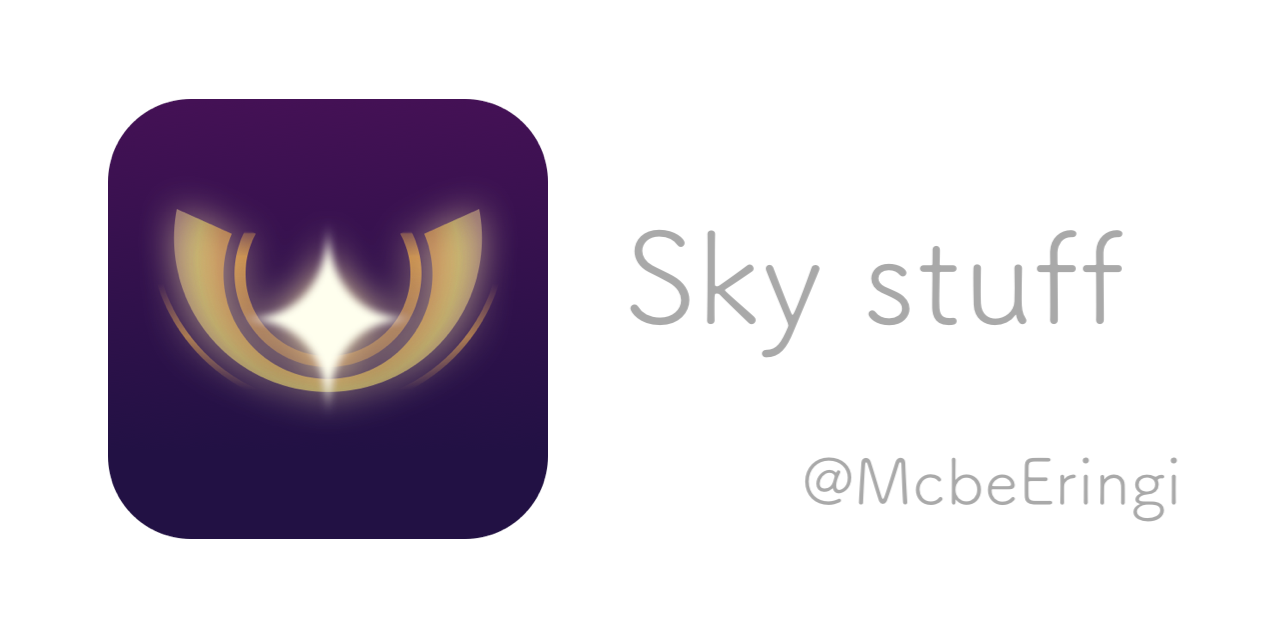
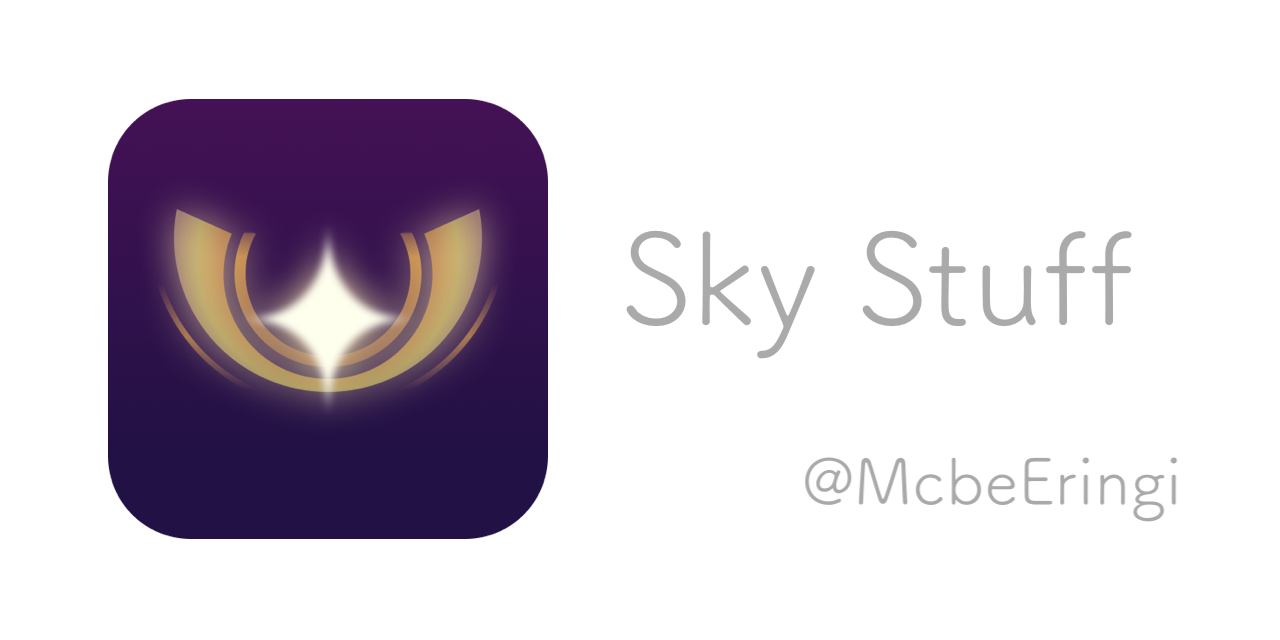
-

Changed region(s): [[0.4688, 0.3438, 0.875, 0.5625], [0.6875, 0.3438, 0.7188, 0.375]]

diff --git a/manual/index.html b/manual/index.html
@@ -7,7 +7,7 @@
 		<meta charset="utf-8">
 		<meta name="viewport" content="width=device-width,initial-scale=1">
 		<title>sky_manual</title>
-		<meta name="Description" content="Sky stuffs' manual">
+		<meta name="Description" content="Sky Stuffs' manual">
 		<link rel="shortcut icon" type="image/svg+xml" href="../img/ico/manual.svg">
 		<meta property="og:type" content="website">
 		<meta property="og:title" content="sky_manual">
@@ -17,7 +17,7 @@
 		<!--iOS-->
 		<meta name="apple-mobile-web-app-capable" content="yes">
 		<meta name="apple-mobile-web-app-status-bar-style" content="default">
-		<meta name="apple-mobile-web-app-title" content="sky stuff">
+		<meta name="apple-mobile-web-app-title" content="Sky Stuff">
 		<link rel="apple-touch-icon" href="../img/sky.png">
 		<!--sw-->
 		<link rel="manifest" href="../skymf.json">

diff --git a/info.html b/info.html
@@ -17,7 +17,7 @@
 		<!--iOS-->
 		<meta name="apple-mobile-web-app-capable" content="yes">
 		<meta name="apple-mobile-web-app-status-bar-style" content="default">
-		<meta name="apple-mobile-web-app-title" content="sky stuff">
+		<meta name="apple-mobile-web-app-title" content="Sky Stuff">
 		<link rel="apple-touch-icon" href="img/sky.png">
 		<!--sw-->
 		<link rel="manifest" href="skymf.json">

diff --git a/seq.html b/seq.html
@@ -17,7 +17,7 @@
 		<!--iOS-->
 		<meta name="apple-mobile-web-app-capable" content="yes">
 		<meta name="apple-mobile-web-app-status-bar-style" content="default">
-		<meta name="apple-mobile-web-app-title" content="sky stuff">
+		<meta name="apple-mobile-web-app-title" content="Sky Stuff">
 		<link rel="apple-touch-icon" href="img/sky.png">
 		<!--sw-->
 		<link rel="manifest" href="skymf.json">

diff --git a/test/instr1.html b/test/instr1.html
@@ -17,7 +17,7 @@
 		<!--iOS-->
 		<meta name="apple-mobile-web-app-capable" content="yes">
 		<meta name="apple-mobile-web-app-status-bar-style" content="default">
-		<meta name="apple-mobile-web-app-title" content="sky stuff">
+		<meta name="apple-mobile-web-app-title" content="Sky Stuff">
 		<link rel="apple-touch-icon" href="img/sky.png">
 		<!--sw-->
 		<link rel="manifest" href="skymf.json">

diff --git a/wings.html b/wings.html
@@ -17,7 +17,7 @@
 		<!--iOS-->
 		<meta name="apple-mobile-web-app-capable" content="yes">
 		<meta name="apple-mobile-web-app-status-bar-style" content="default">
-		<meta name="apple-mobile-web-app-title" content="sky stuff">
+		<meta name="apple-mobile-web-app-title" content="Sky Stuff">
 		<link rel="apple-touch-icon" href="img/sky.png">
 		<!--sw-->
 		<link rel="manifest" href="skymf.json">

diff --git a/index.html b/index.html
@@ -17,7 +17,7 @@
 	<!--iOS-->
 	<meta name="apple-mobile-web-app-capable" content="yes">
 	<meta name="apple-mobile-web-app-status-bar-style" content="default">
-	<meta name="apple-mobile-web-app-title" content="sky stuff">
+	<meta name="apple-mobile-web-app-title" content="Sky Stuff">
 	<link rel="apple-touch-icon" href="img/sky.png">
 	<!--sw-->
 	<link rel="manifest" href="skymf.json">

diff --git a/instr.html b/instr.html
@@ -17,7 +17,7 @@
 	<!--iOS-->
 	<meta name="apple-mobile-web-app-capable" content="yes">
 	<meta name="apple-mobile-web-app-status-bar-style" content="default">
-	<meta name="apple-mobile-web-app-title" content="sky stuff">
+	<meta name="apple-mobile-web-app-title" content="Sky Stuff">
 	<link rel="apple-touch-icon" href="img/sky.png">
 	<!--sw-->
 	<link rel="manifest" href="skymf.json">

diff --git a/test/seq0.html b/test/seq0.html
@@ -17,7 +17,7 @@
 	<!--iOS-->
 	<meta name="apple-mobile-web-app-capable" content="yes">
 	<meta name="apple-mobile-web-app-status-bar-style" content="default">
-	<meta name="apple-mobile-web-app-title" content="sky stuff">
+	<meta name="apple-mobile-web-app-title" content="Sky Stuff">
 	<link rel="apple-touch-icon" href="img/sky.png">
 	<!--sw-->
 	<link rel="manifest" href="skymf.json">
